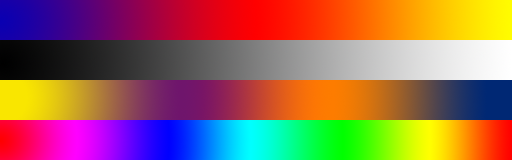
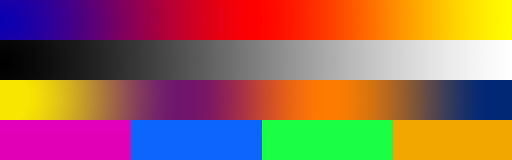
new approach to ColorRenderer ... first tests

Changed region(s): [[0.0, 0.75, 1.0, 1.0]]

diff --git a/src/Renderer/Color/PMRendererColor.cpp b/src/Renderer/Color/PMRendererColor.cpp
@@ -110,6 +110,11 @@ PMRendererColor::PMRendererColor(unsigned int numInputs) : PMBaseRenderer(RENDER
     /// GUI
     guiBaseRenderer = new PMUICanvasColorRenderer("COLOR_RENDERER",OFX_UI_FONT_MEDIUM);
     guiBaseRenderer->init(100, 500, 200, 300);
+    
+    // NEW STUFF
+    drawingHorizontal = true;
+    drawingHeight = 50 + (ofRandomuf()*ofGetHeight()/4);
+    drawingPos = ofRandomuf()*ofGetHeight();
 }
 
 //--------------------------------------------------------------
@@ -117,6 +122,8 @@ void PMRendererColor::setup()
 {
     PMBaseRenderer::setup();
     
+    ofAddListener(ofEvents().keyPressed, this, &PMRendererColor::keyPressed);
+
     canvasColorRenderer = dynamic_cast<PMUICanvasColorRenderer *> (guiBaseRenderer);
     
     scanX = 0.0;
@@ -129,11 +136,64 @@ void PMRendererColor::update()
     PMBaseRenderer::update();
     
     //    ofxUIToggleMatrix *toggleMatrix = dynamic_cast<ofxUIToggleMatrix *>(channelToggles);
-    scanX = scanX + canvasColorRenderer->getScanSpeedX();
-
-    if(scanX > ofGetWidth())
+    scanX = scanX + int(canvasColorRenderer->getScanSpeedX()) + int(canvasColorRenderer->getScanWidth()) -1 ;
+    
+    if(drawingHorizontal)
     {
-        scanX = ofGetWidth() - scanX;
+        if(scanX > ofGetWidth())
+        {
+            scanX = 0;
+            float luck = ofRandomf();
+            bool doTurn;
+            if(luck>=0.0) doTurn = true;
+            else doTurn = false;
+            
+            
+            if (doTurn)
+            {
+                cout << "do TURN" << endl;
+                drawingHorizontal=false;
+                // change direction
+                drawingHeight = 50 + (ofRandomuf()*ofGetWidth()/4);
+                drawingPos = ofRandomuf()*ofGetWidth();
+            }
+            else
+            {
+                // change direction
+                drawingHeight = 50 + (ofRandomuf()*ofGetHeight()/4);
+                drawingPos = ofRandomuf()*ofGetHeight();
+            }
+            
+        }
+    }
+    else
+    {
+        // we're drawing vertical
+        if(scanX > ofGetHeight())
+        {
+            scanX = 0;
+            
+            bool doTurn;
+            if(ofRandomf()>=0.0) doTurn = true;
+            else doTurn = false;
+            
+            if (doTurn)
+            {
+                // change direction
+                drawingHorizontal = true;
+                drawingHeight = 50 + (ofRandomuf()*ofGetHeight()/4);
+                drawingPos = ofRandomuf()*ofGetHeight();
+            }
+            else
+            {
+                // change direction
+                drawingHeight = 50 + (ofRandomuf()*ofGetWidth()/4);
+                drawingPos = ofRandomuf()*ofGetWidth();
+            }
+
+            
+
+        }
     }
 }
 
@@ -228,8 +288,28 @@ void PMRendererColor::drawIntoFBO()
                 
                 break;
             }
+            case 5 :
+            {
+                // color
+                ofColor c = canvasColorRenderer->getGradientColor(canvasColorRenderer->getGradientId(),pitchSmooth);
+                ofSetColor(c);
                 
+                // shape
+                ofSetRectMode(OF_RECTMODE_CENTER);
+                if(drawingHorizontal)
+                {
+                    ofDrawRectangle(scanX,drawingPos,canvasColorRenderer->getScanWidth(), drawingHeight);
+                }
+                else
+                {
+                    ofDrawRectangle(drawingPos,scanX,drawingHeight,canvasColorRenderer->getScanWidth());
+                }
+                ofSetRectMode(OF_RECTMODE_CORNER);
                 
+                cout << "scanX : " << scanX << " // pos " << drawingPos << "Height " << drawingHeight << endl;
+                
+                break;
+            }
             default:
                 break;
         }
@@ -258,5 +338,16 @@ void PMRendererColor::setEnergy(float e)
 {
     energy = e;
 }
+
+
+void PMRendererColor::keyPressed ( ofKeyEventArgs& eventArgs )
+{
+    cout << eventArgs.key << endl;
+
+    if (eventArgs.key == 'q')
+    {
+    }
+}
+
 
 

diff --git a/src/Renderer/Color/PMRendererColor.h b/src/Renderer/Color/PMRendererColor.h
@@ -27,6 +27,8 @@ public:
     virtual void update();
     virtual void drawIntoFBO();
     
+    void keyPressed ( ofKeyEventArgs& eventArgs );
+
     ///-
     void setPitch(float p);
     void setEnergy(float e);
@@ -53,6 +55,11 @@ private:
 
     /// mode 2
     float   scanX;
+    
+    /// NEW STUFF
+    bool        drawingHorizontal;
+    float       drawingHeight;
+    float       drawingPos;
     
     
     

diff --git a/src/UICanvas/PMUICanvasColorRenderer.cpp b/src/UICanvas/PMUICanvasColorRenderer.cpp
@@ -16,7 +16,7 @@ void PMUICanvasColorRenderer::init(int posX, int posY, bool autosize, int width,
     gradientImage.load("./gradients/test4x_v1.png");
     
     addSpacer();
-    addIntSlider("Mode",1,4,&guiMode);
+    addIntSlider("Mode",1,10,&guiMode);
 
     addSlider("Scan Speed X",0.0,5.0,&guiScanSpeedX);
     addSlider("Scan With",0.0,150.0,&guiScanWidth);

diff --git a/src/Renderer/Typography/PMRendererTypography.cpp b/src/Renderer/Typography/PMRendererTypography.cpp
@@ -26,7 +26,7 @@ PMRendererTypography::PMRendererTypography(unsigned int numInputs) : PMBaseRende
 
     // Font preload
     {
-        string fontName = "5inq_-_Handserif.ttf";
+        string fontName = "GaramondPremrPro.otf";
         string fontPath = "fonts/" + fontName;
 
         for (int i=0; i<charset.size(); ++i)

diff --git a/src/Defaults.h b/src/Defaults.h
@@ -12,7 +12,7 @@
 #define ConductrEnter_Config_h
 
 static const int            DEFAULT_WINDOW_WIDTH        = 1280;
-static const int            DEFAULT_WINDOW_HEIGHT       = 720;
+static const int            DEFAULT_WINDOW_HEIGHT       = 960;
 
 static const ofWindowMode   DEFAULT_WINDOW_MODE         = OF_WINDOW;
 
